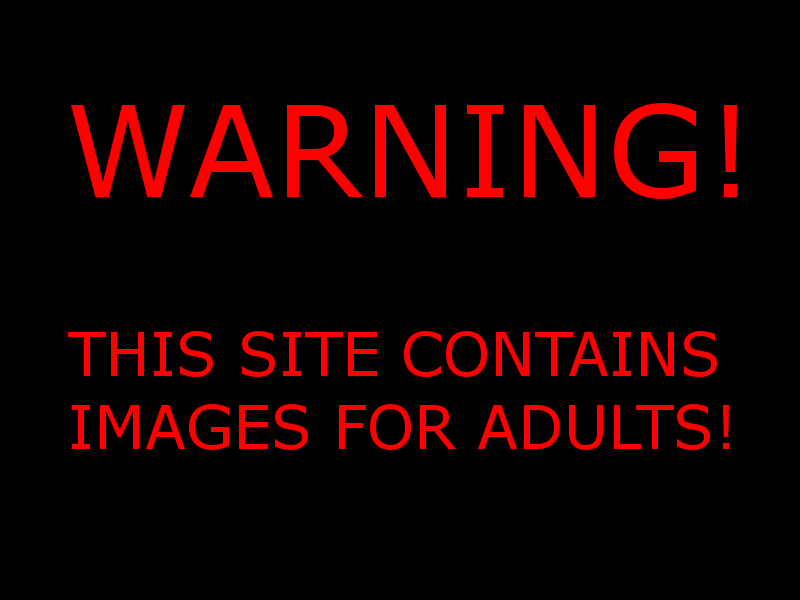
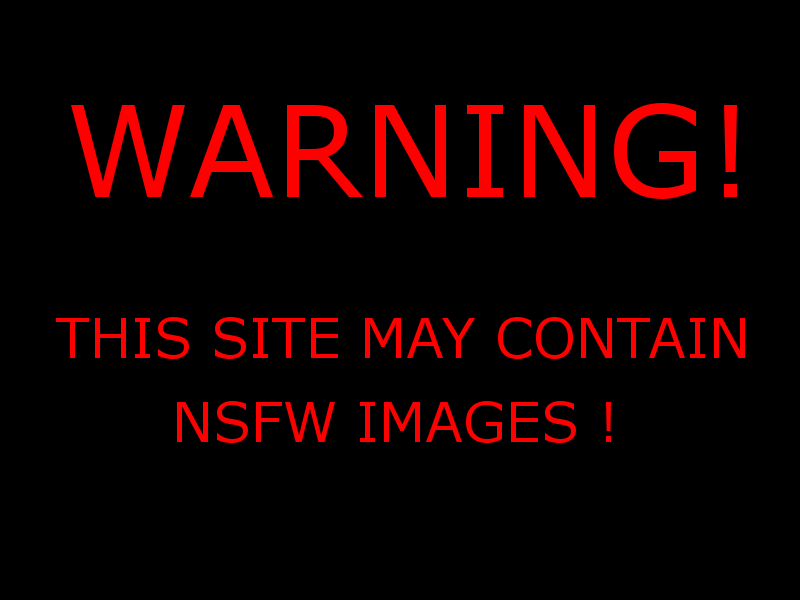
warning update

Changed region(s): [[0.0625, 0.51, 0.9375, 0.63], [0.0938, 0.66, 0.9375, 0.75]]

diff --git a/index.html b/index.html
@@ -128,7 +128,7 @@
 	<a href="imgur/index.html" onmouseover="presentWarning()" onmouseout="hideWarning()" >
 	<div   id = "imgur"  alt ="">
 	<img    style=" max-width: 100%; "src="imgur.png"/>
-		<a  href="imgur/index.html" style="text-decoration:none;" id="warning" onmouseover="presentWarning()" onmouseout="hideWarning()" >WARNING: THIS SITE CONTAINS IMAGES FOR ADULTS</a>
+		<a  href="imgur/index.html" style="text-decoration:none;" id="warning" onmouseover="presentWarning()" onmouseout="hideWarning()" >WARNING: THIS SITE MAY CONTAIN IMAGES FOR ADULTS</a>
 	</div>
 	</a>
 	
